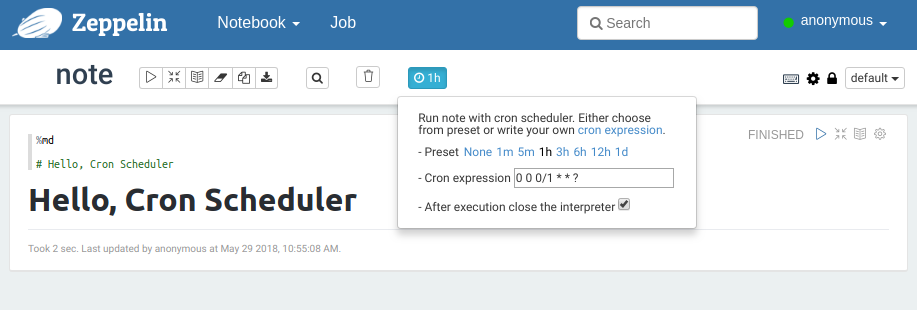
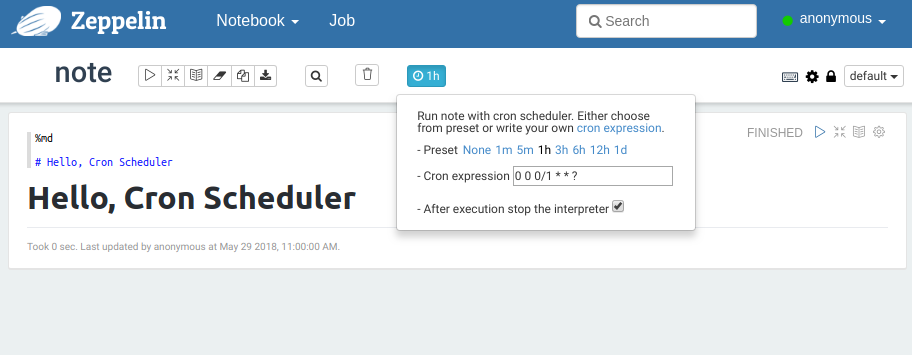
[ZEPPELIN-3476] replace "close" on "stop"

diff --git a/zeppelin-web/src/app/notebook/notebook-actionBar.html b/zeppelin-web/src/app/notebook/notebook-actionBar.html
@@ -281,7 +281,7 @@ limitations under the License.
                 </p>
               </div>
               <div>
-                <span>- After execution close the interpreter </span>
+                <span>- After execution stop the interpreter </span>
                 <input type="checkbox"
                        ng-model="note.config.releaseresource"
                        ng-click="setReleaseResource(note.config.releaseresource)"/>

diff --git a/docs/usage/other_features/cron_scheduler.md b/docs/usage/other_features/cron_scheduler.md
@@ -45,7 +45,7 @@ You can set the cron schedule by filling in this form. Please see [Cron Trigger 
 
 You can set the cron executing user by filling in this form and press the enter key.
 
-### After execution close the interpreter
+### After execution stop the interpreter
 
 When this checkbox is set to "on", the interpreters which are binded to the notebook are stopped automatically after the cron execution. This feature is useful if you want to release the interpreter resources after the cron execution.
 
